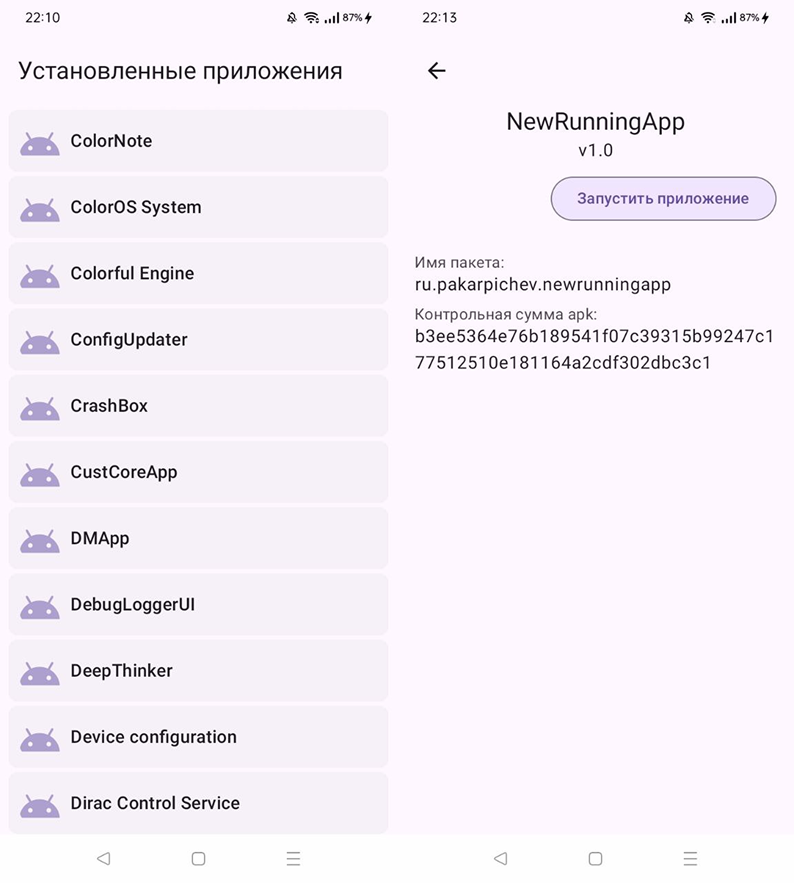
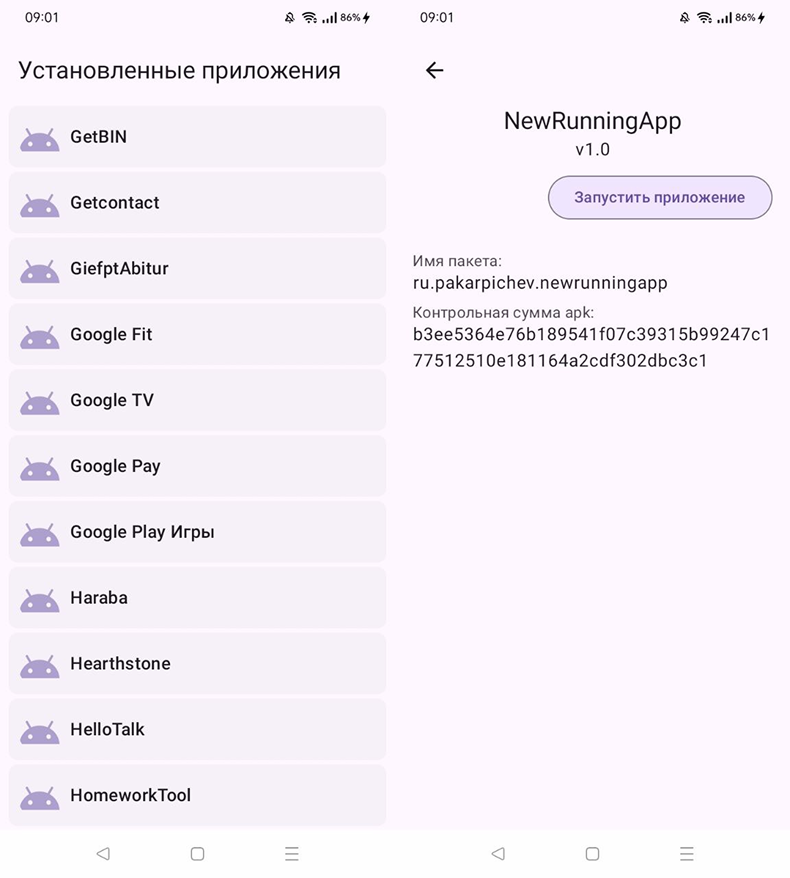
task-6 memory usage optimization

diff --git a/app/src/main/java/ru/pk/testfordrweb/data/manager/DeviceManagerImpl.kt b/app/src/main/java/ru/pk/testfordrweb/data/manager/DeviceManagerImpl.kt
@@ -1,6 +1,7 @@
 package ru.pk.testfordrweb.data.manager
 
 import android.content.Context
+import android.content.pm.ApplicationInfo
 import android.content.pm.Checksum
 import android.os.Build
 import dagger.hilt.android.qualifiers.ApplicationContext
@@ -53,17 +54,27 @@ class DeviceManagerImpl @Inject constructor(
     override suspend fun getInstalledAppsDefaultInfo() = withContext(Dispatchers.IO) {
         val packageManager = context.packageManager
         //Получаем установленные прилолжения за исключением этого приложения
-        val apps = packageManager.getInstalledApplications(0)
-            .filter { it.packageName != context.packageName }
-            .sortedBy {
-                packageManager.getApplicationLabel(it).toString()
+        packageManager.getInstalledApplications(0)
+            .asSequence()
+            .filter { appInfo ->
+                // Исключаем текущее приложение
+                appInfo.packageName != context.packageName
+                        // Исключаем системные приложения (FLAG_SYSTEM)
+                        && (appInfo.flags and ApplicationInfo.FLAG_SYSTEM) == 0
+
+                        // Исключаем приложения Android (com.android.*)
+                        && !appInfo.packageName.startsWith("com.android.")
             }
-        apps.map {
-            InstalledAppDefaultInfoModel(
-                appName = packageManager.getApplicationLabel(it).toString(),
-                packageName = it.packageName
-            )
-        }
+            .map { appInfo ->
+                // Кэшируем метку приложения
+                val appName = packageManager.getApplicationLabel(appInfo).toString()
+                InstalledAppDefaultInfoModel(
+                    appName = appName,
+                    packageName = appInfo.packageName
+                )
+            }
+            .sortedBy { it.appName }
+            .toList()
     }
 
 
